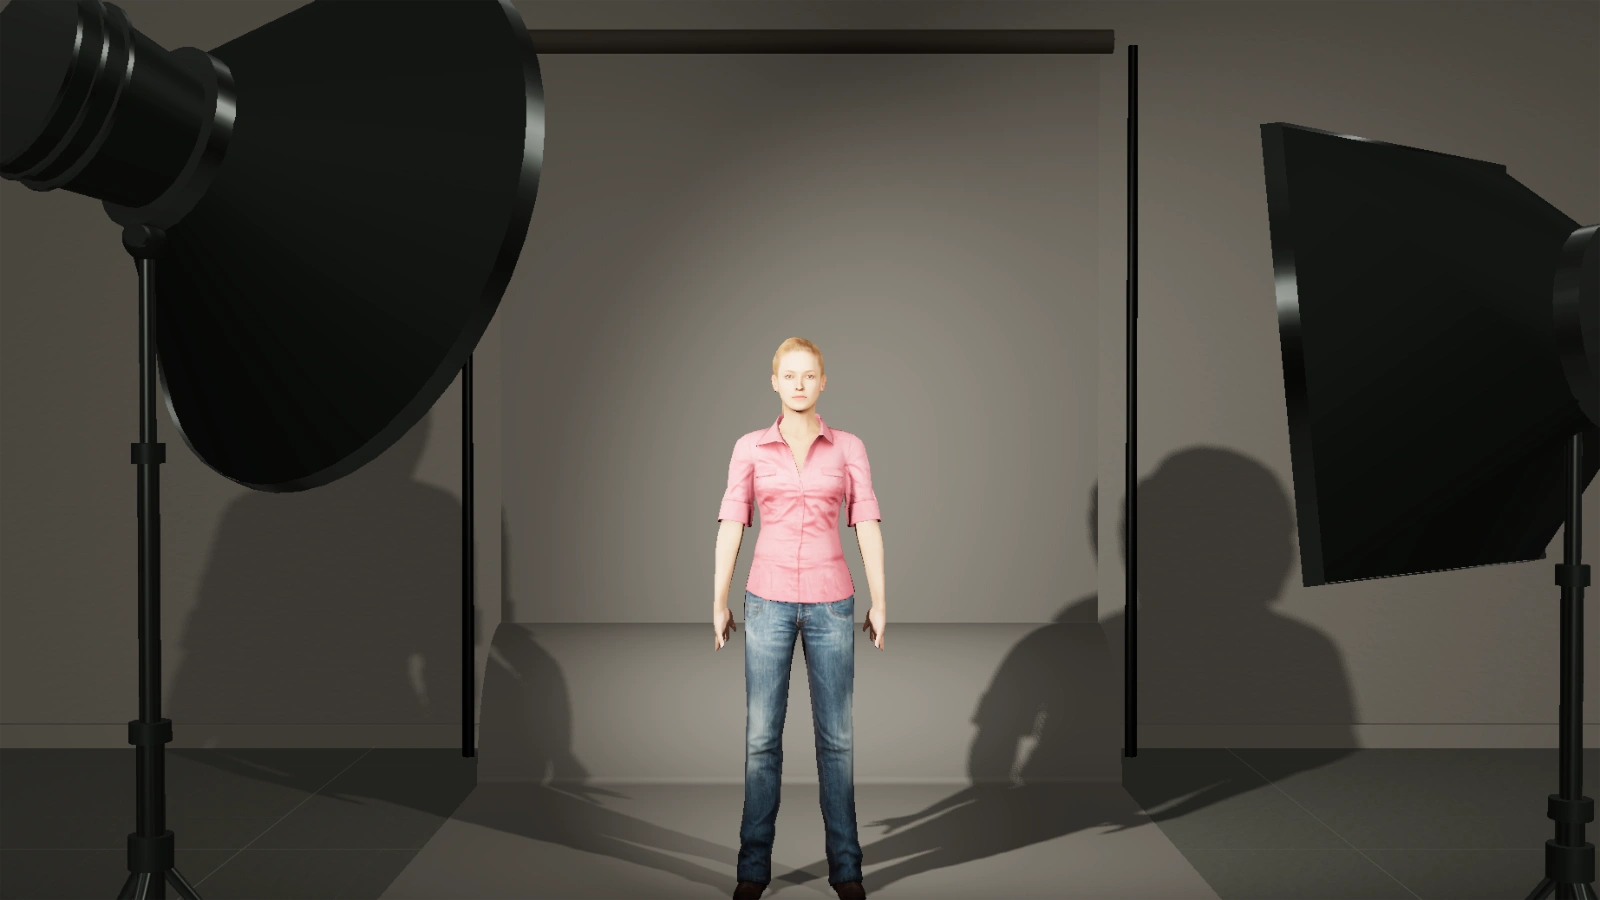
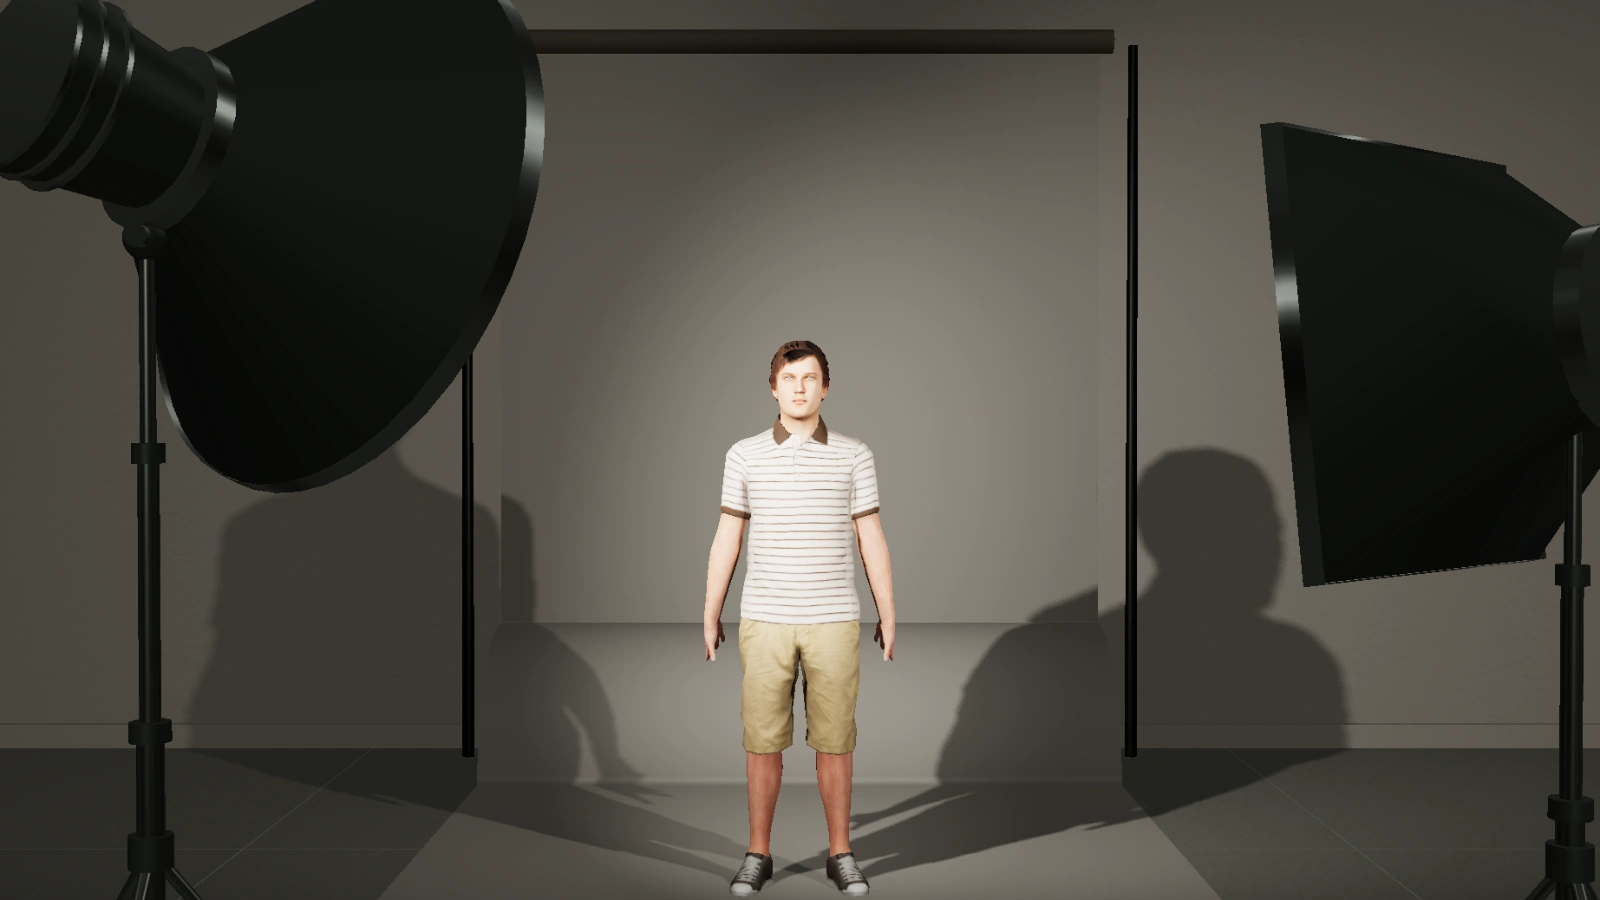
fix homepage lighting comparison

diff --git a/src/components/PublicSite.tsx b/src/components/PublicSite.tsx
@@ -78,7 +78,7 @@ const COPY: Record<Locale, Copy> = {
     demoSteps: [['選擇配置', '從經典布光開始。'], ['安排主體', '確認人物位置與姿勢。'], ['移動燈位', '調整距離、角度與功率。'], ['確認相機', '檢查焦段、光圈與取景。'], ['檢視平面配置', '從上方確認人、燈與相機位置。'], ['匯出到現場', '儲存並輸出燈位工作表。']],
     demoControls: { play: '播放', pause: '暫停', replay: '重新播放', progress: '操作影片進度', shortcuts: '快捷鍵：左右箭頭前後移動，空白鍵播放或暫停' },
     mode: { title: '選擇你的工作方式', body: '兩種模式使用同一個場景格式，隨時可以切換。', close: '關閉模式選擇', simpleTitle: '簡易模式', simpleBody: '適合第一次使用與攝影學習，只保留人物、燈光、相機與配置的必要控制。', simpleCta: '開啟簡易版', proTitle: '專業模式', proBody: '完整燈光、相機、測光、連戲、預設與匯出控制。', proCta: '開啟專業版' },
-    compareTitle: '不只看介面 直接比較畫面結果', compareBody: '拖曳分隔線，比較即時取景與降噪預覽的清晰度和細節。', compareBefore: '即時取景', compareAfter: '降噪預覽', compareHint: '拖曳以比較處理前後',
+    compareTitle: '不只看介面 直接比較畫面結果', compareBody: '同一位男性、同一個構圖，拖曳比較單燈基礎光與主燈、補光全開的完成佈光。', compareBefore: '基礎光', compareAfter: '完成佈光', compareHint: '拖曳以比較佈光前後',
     release: { title: '現在就能使用 也會持續改善', status: '公開測試中', statusBody: '網站可直接開啟，不需申請邀請。', updated: '最近更新', updatedBody: '首頁流程案例、受眾與模擬說明。', included: '免費版包含', includedBody: '15 組配置、簡易／專業工作區、本機儲存、備份與分享。', showcase: '產品展示 Repo', showcaseBody: '查看英文產品介紹、功能重點與精選畫面，不包含原始碼。' },
     audienceTitle: '給需要在開拍前先把決定說清楚的人', audienceBody: '不論你是在學習佈光、準備個人拍攝，或需要讓團隊看懂同一份計畫，都可以從相同場景開始。', audiences: [['攝影師', '在進棚前確認燈位、鏡頭與構圖。'], ['攝影助理', '把距離、方向與器材配置整理成可執行資訊。'], ['攝影學習者', '用即時畫面理解每次調整如何改變結果。'], ['前期製作團隊', '在拍攝前共享一致的視覺與空間方案。']],
     methodTitle: '它是規劃工具 不是假裝取代現場', methodBody: 'LUMEN STAGE 使用攝影常用的距離、焦段、光圈、照度與色溫建立可比較的預演；最終曝光、顏色與安全仍以現場器材和測量為準。', methodPoints: [['物理估算', '距離、光線衰減、鏡頭與景深用一致的參數關係計算。'], ['視覺預覽', '算圖用來比較方向、比例與相對差異，不是校色或測光證明。'], ['現場確認', '正式拍攝仍需使用實際燈具、相機、測光表與安全規範。']],
@@ -106,7 +106,7 @@ const COPY: Record<Locale, Copy> = {
     demoLink: 'Watch the 15-second workflow', demoTitle: 'From a blank idea to a shootable plan in fifteen seconds.', demoBody: 'Light, frame, compare and hand off from one live scene instead of guessing what every adjustment will do.', demoSteps: [['Choose a setup', 'Start with a classic lighting pattern.'], ['Place the subject', 'Confirm position and pose.'], ['Move the lights', 'Tune distance, angle and output.'], ['Confirm the camera', 'Check focal length, aperture and frame.'], ['Review the layout', 'See subject, lights and camera from above.'], ['Export for set', 'Save and export a setup sheet.']],
     demoControls: { play: 'Play', pause: 'Pause', replay: 'Replay', progress: 'Demo video progress', shortcuts: 'Shortcuts: left and right arrows to seek, Space to play or pause' },
     mode: { title: 'Choose your workspace', body: 'Both modes use the same scene format, so you can switch at any time.', close: 'Close mode chooser', simpleTitle: 'Simple mode', simpleBody: 'For first-time users and photography learners. Keeps only the essential subject, light, camera and layout controls.', simpleCta: 'Open simple mode', proTitle: 'Professional mode', proBody: 'Complete lighting, camera, metering, continuity, preset and export controls.', proCta: 'Open professional mode' },
-    compareTitle: 'Compare the picture, not just the interface.', compareBody: 'Drag the split to compare the live view with a clean preview for clarity and detail.', compareBefore: 'Live view', compareAfter: 'Clean preview', compareHint: 'Drag to compare before and after',
+    compareTitle: 'Compare the picture, not just the interface.', compareBody: 'With the same male subject and framing, drag the split to compare a single-light base with the finished key-and-fill setup.', compareBefore: 'Base light', compareAfter: 'Finished lighting', compareHint: 'Drag to compare the lighting',
     release: { title: 'Ready to use, and still improving.', status: 'Public beta', statusBody: 'Open the site directly. No invitation or application required.', updated: 'Latest update', updatedBody: 'Homepage workflow case, audience and simulation notes.', included: 'Free version includes', includedBody: '15 setups, simple and pro workspaces, local saves, backups and sharing.', showcase: 'Product showcase', showcaseBody: 'View the English product overview, feature highlights and selected visuals. Source code is not included.' },
     audienceTitle: 'For anyone who needs the decisions clear before call time.', audienceBody: 'Learn light, prepare a personal shoot, or align a crew around one shared scene before equipment reaches the set.', audiences: [['Photographers', 'Confirm lighting, lens and composition before entering the studio.'], ['Photo assistants', 'Turn distance, direction and equipment placement into an actionable plan.'], ['Photography learners', 'See how each adjustment changes the image in real time.'], ['Pre-production teams', 'Share one visual and spatial plan before the shoot.']],
     methodTitle: 'A planning instrument, not a substitute for the set.', methodBody: 'LUMEN STAGE uses photographic distance, focal length, aperture, illuminance and colour temperature for consistent previews. Final exposure, colour and safety still depend on real equipment and on-set measurement.', methodPoints: [['Physical estimates', 'Distance, falloff, lens and depth of field follow a consistent parameter model.'], ['Visual preview', 'Renders compare direction, proportion and relative change; they are not a colour or meter certificate.'], ['On-set verification', 'Confirm the final setup with real lights, camera, meter and safety practice.']],
@@ -131,7 +131,7 @@ const COPY: Record<Locale, Copy> = {
     demoLink: '15 秒の操作を見る', demoTitle: '十五秒で、アイデアを撮影可能なプランへ。', demoBody: '1 つのライブシーンで照明、構図、比較、書き出しまで行い、調整の結果を画面で確認できます。', demoSteps: [['セットを選ぶ', '定番の照明から開始。'], ['主体を配置', '位置とポーズを確認。'], ['ライトを動かす', '距離、角度、出力を調整。'], ['カメラを確認', '焦点距離、絞り、フレームを確認。'], ['レイアウトを確認', '主体、ライト、カメラを上から確認。'], ['現場用に書き出す', '保存してセットアップ表を書き出し。']],
     demoControls: { play: '再生', pause: '一時停止', replay: '最初から再生', progress: 'デモ動画の進行', shortcuts: 'ショートカット：左右矢印で移動、Space で再生／一時停止' },
     mode: { title: 'ワークスペースを選ぶ', body: 'どちらも同じシーン形式を使い、いつでも切り替えられます。', close: 'モード選択を閉じる', simpleTitle: 'シンプルモード', simpleBody: '初めての方と写真学習向け。主体、ライト、カメラ、配置の必要な操作だけを表示。', simpleCta: 'シンプル版を開く', proTitle: 'プロモード', proBody: '照明、カメラ、測光、連続性、プリセット、書き出しの全操作。', proCta: 'プロ版を開く' },
-    compareTitle: 'インターフェースではなく、写真の結果を比較。', compareBody: '分割線をドラッグし、ライブ表示とノイズ低減表示の鮮明さとディテールを比較。', compareBefore: 'ライブ表示', compareAfter: 'ノイズ低減表示', compareHint: 'ドラッグして処理前後を比較',
+    compareTitle: 'インターフェースではなく、写真の結果を比較。', compareBody: '同じ男性モデルと構図で、単灯の基礎照明とキー・フィルを使った完成照明を比較できます。', compareBefore: '基礎照明', compareAfter: '完成照明', compareHint: 'ドラッグして照明を比較',
     release: { title: '今すぐ使え、継続して改善中。', status: '公開ベータ', statusBody: '招待や申請なしで直接開けます。', updated: '最終更新', updatedBody: 'ホームの工程例、対象者、シミュレーション説明。', included: '無料版に含まれるもの', includedBody: '15 セット、シンプル／プロ画面、ローカル保存、バックアップ、共有。', showcase: '製品ショーケース', showcaseBody: '英語の製品紹介、機能概要、選定ビジュアルを掲載。ソースコードは含みません。' },
     audienceTitle: '撮影前に判断を明確にしたいすべての人へ。', audienceBody: '照明を学ぶ人、個人撮影を準備する人、同じプランを共有するチームが、1 つのシーンから始められます。', audiences: [['フォトグラファー', 'スタジオ入り前に照明、レンズ、構図を確認。'], ['撮影アシスタント', '距離、方向、機材配置を実行可能な情報に整理。'], ['写真学習者', '各調整が画像をどう変えるかリアルタイムで理解。'], ['プリプロダクション', '撮影前に共通の視覚・空間プランを共有。']],
     methodTitle: '現場を置き換えるのではなく、準備を強くする道具。', methodBody: 'LUMEN STAGE は距離、焦点距離、絞り、照度、色温度で一貫したプレビューを作ります。最終露出、色、安全性は実機材と現場測定で確認してください。', methodPoints: [['物理的な推定', '距離、減衰、レンズ、被写界深度を一貫したパラメータで計算。'], ['視覚プレビュー', '方向、比率、相対変化を比較するための表示で、測光・色校正の証明ではありません。'], ['現場での確認', '実際のライト、カメラ、露出計、安全基準で最終セットを確認。']],
